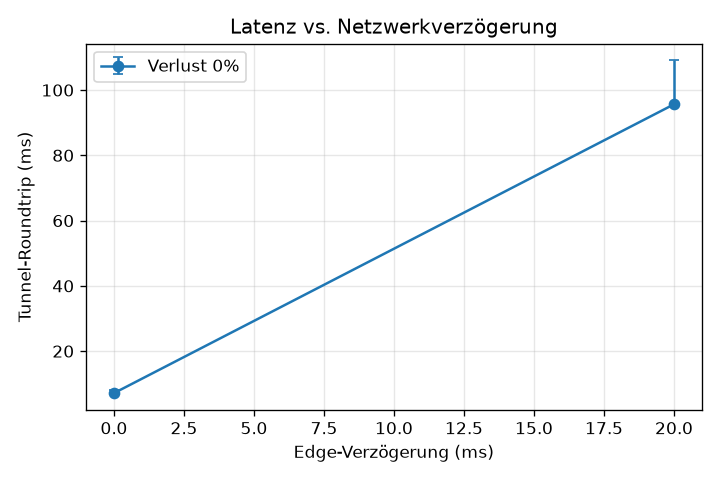
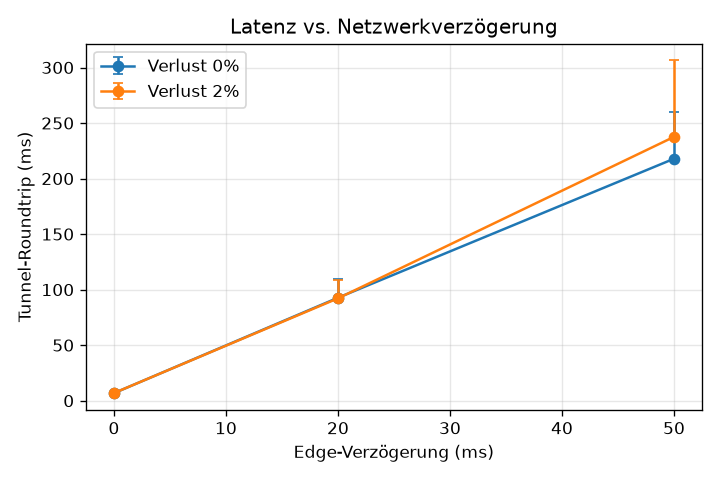
M6.4: results tables + analysis — Milestone 6 complete
scripts/tabulate.py (stdlib, runs in python:3-slim) turns latency.csv into
results-table.md (GitHub-Markdown) and results-table.tex (LaTeX booktabs,
German headers, \label{tab:latency}), sorted by (delay, loss). Ran a real
3×2 matrix sweep (delay {0,20,50}ms × loss {0,2}% × n=5), regenerated both
figures (latency-vs-loss now populated), and wrote results.md — a German
analysis of the measurements:

- baseline 6.8ms round-trip;
- RT ≈ 6.8 + 4.2·delay (multi-hop relay + fresh-dial handshake cross the
  delayed edge egress ~4× per round-trip);
- 2% loss negligible at low RTT, grows the p95 tail at 50ms (260→307ms).

Evaluation pipeline is now end-to-end and docker-only: sweep → CSV → plot →
table → analysis. Script/data-only, no Rust change; 94 unit tests unchanged.
Next: M7.1 LaTeX thesis scaffold.

Claude-Session: https://claude.ai/code/session_01TWNQVzYqWaWG8nB9JL6He3

diff --git a/scripts/tabulate.py b/scripts/tabulate.py
@@ -1,0 +1,102 @@
+#!/usr/bin/env python3
+"""M6.4 — turn the netem sweep CSV into thesis result tables.
+
+Reads the sweep CSV (delay,loss,rate,n,mean_ms,min_ms,max_ms,p50_ms,p95_ms) and
+emits two tables, sorted by (delay, loss):
+  results-table.md   — GitHub-Markdown (for PROGRESS / review)
+  results-table.tex  — LaTeX booktabs tabular (for the thesis, German headers)
+
+Pure stdlib; run inside a python container via scripts/plot.sh's image (no deps).
+"""
+import csv
+import os
+import re
+
+CSV = os.environ.get("TABLE_CSV", "docs/thesis/data/latency.csv")
+OUT_MD = os.environ.get("TABLE_MD", "docs/thesis/data/results-table.md")
+OUT_TEX = os.environ.get("TABLE_TEX", "docs/thesis/data/results-table.tex")
+
+
+def num(s):
+    m = re.match(r"\s*([\d.]+)", s or "")
+    return float(m.group(1)) if m else 0.0
+
+
+def load():
+    with open(CSV, newline="") as f:
+        rows = list(csv.DictReader(f))
+    rows.sort(key=lambda r: (num(r["delay"]), num(r["loss"]), num(r["rate"])))
+    return rows
+
+
+def has_rate(rows):
+    return any((r.get("rate") or "").strip() for r in rows)
+
+
+def fmt(r, k):
+    return f"{float(r[k]):.1f}"
+
+
+def write_md(rows, rate_col):
+    head = ["Verzögerung", "Verlust"]
+    if rate_col:
+        head.append("Rate")
+    head += ["n", "Mittel (ms)", "p50 (ms)", "p95 (ms)", "Min (ms)", "Max (ms)"]
+    align = ["---"] * len(head)
+    lines = ["| " + " | ".join(head) + " |", "| " + " | ".join(align) + " |"]
+    for r in rows:
+        cells = [r["delay"] or "0ms", r["loss"] or "0%"]
+        if rate_col:
+            cells.append(r["rate"] or "—")
+        cells += [r["n"], fmt(r, "mean_ms"), fmt(r, "p50_ms"),
+                  fmt(r, "p95_ms"), fmt(r, "min_ms"), fmt(r, "max_ms")]
+        lines.append("| " + " | ".join(cells) + " |")
+    with open(OUT_MD, "w") as f:
+        f.write("\n".join(lines) + "\n")
+    print("tabulate: wrote", OUT_MD)
+
+
+def tex_esc(s):
+    return s.replace("%", r"\%").replace("_", r"\_")
+
+
+def write_tex(rows, rate_col):
+    cols = "ll" + ("l" if rate_col else "") + "rrrrrr"
+    head = ["Verzögerung", "Verlust"]
+    if rate_col:
+        head.append("Rate")
+    head += ["$n$", "Mittel", "p50", "p95", "Min", "Max"]
+    unit = [""] * (3 if rate_col else 2) + ["", "(ms)", "(ms)", "(ms)", "(ms)", "(ms)"]
+    out = [
+        r"\begin{table}[t]",
+        r"  \centering",
+        r"  \caption{Tunnel-Roundtrip-Latenz unter emulierten Netzbedingungen (\texttt{tc netem}).}",
+        r"  \label{tab:latency}",
+        r"  \begin{tabular}{" + cols + "}",
+        r"    \toprule",
+        "    " + " & ".join(tex_esc(h) for h in head) + r" \\",
+        "    " + " & ".join(unit) + r" \\",
+        r"    \midrule",
+    ]
+    for r in rows:
+        cells = [tex_esc(r["delay"] or "0ms"), tex_esc(r["loss"] or "0%")]
+        if rate_col:
+            cells.append(tex_esc(r["rate"] or "--"))
+        cells += [r["n"], fmt(r, "mean_ms"), fmt(r, "p50_ms"),
+                  fmt(r, "p95_ms"), fmt(r, "min_ms"), fmt(r, "max_ms")]
+        out.append("    " + " & ".join(cells) + r" \\")
+    out += [r"    \bottomrule", r"  \end{tabular}", r"\end{table}"]
+    with open(OUT_TEX, "w") as f:
+        f.write("\n".join(out) + "\n")
+    print("tabulate: wrote", OUT_TEX)
+
+
+def main():
+    rows = load()
+    rate_col = has_rate(rows)
+    write_md(rows, rate_col)
+    write_tex(rows, rate_col)
+
+
+if __name__ == "__main__":
+    main()

diff --git a/docs/thesis/data/results-table.tex b/docs/thesis/data/results-table.tex
@@ -1,0 +1,18 @@
+\begin{table}[t]
+  \centering
+  \caption{Tunnel-Roundtrip-Latenz unter emulierten Netzbedingungen (\texttt{tc netem}).}
+  \label{tab:latency}
+  \begin{tabular}{llrrrrrr}
+    \toprule
+    Verzögerung & Verlust & $n$ & Mittel & p50 & p95 & Min & Max \\
+     &  &  & (ms) & (ms) & (ms) & (ms) & (ms) \\
+    \midrule
+    0ms & 0\% & 5 & 6.8 & 6.6 & 7.9 & 5.8 & 7.9 \\
+    0ms & 2\% & 5 & 6.9 & 6.9 & 8.2 & 5.5 & 8.2 \\
+    20ms & 0\% & 5 & 92.7 & 88.7 & 109.2 & 88.1 & 109.2 \\
+    20ms & 2\% & 5 & 92.2 & 88.2 & 108.5 & 88.0 & 108.5 \\
+    50ms & 0\% & 5 & 217.9 & 207.5 & 260.4 & 205.5 & 260.4 \\
+    50ms & 2\% & 5 & 237.5 & 207.7 & 306.5 & 207.5 & 306.5 \\
+    \bottomrule
+  \end{tabular}
+\end{table}

diff --git a/docs/thesis/data/results.md b/docs/thesis/data/results.md
@@ -1,0 +1,56 @@
+# Evaluation: Tunnel-Roundtrip-Latenz (M6)
+
+Auswertung der Messreihe aus `latency.csv`, erzeugt reproduzierbar per
+`scripts/sweep.sh` (Messung), `scripts/plot.sh` (Abbildungen) und
+`scripts/tabulate.py` (Tabellen) — alles Docker-only.
+
+## Versuchsaufbau
+
+- **Testbett:** Docker-Compose-Topologie (`docker/docker-compose.yml`) mit
+  Edge, Agent, Origin (TCP-Echo) und Client auf einem statischen Netz
+  (10.5.0.0/24).
+- **Impairment:** `tc netem` auf der Edge-Egress (`netem-entrypoint.sh`),
+  konfiguriert über `EDGE_DELAY` / `EDGE_LOSS`.
+- **Messung:** `ct-client` im Bench-Modus (`CT_CLIENT_ITERATIONS`) misst je
+  Bedingung $n=5$ vollständige Roundtrips (Dial → PoW-Rendezvous → Tunnel →
+  Echo-Verifikation), jeweils mit **frisch aufgebauter QUIC-Verbindung**.
+- **Matrix:** Verzögerung $\in \{0, 20, 50\}$ ms $\times$ Verlust $\in \{0, 2\}$ %.
+
+Ergebnistabelle: `results-table.md` / `results-table.tex` (LaTeX,
+`\label{tab:latency}`). Abbildungen: `latency-vs-delay.png`,
+`latency-vs-loss.png`.
+
+## Beobachtungen
+
+1. **Baseline (0 ms, 0 %):** Mittel **6.8 ms** Roundtrip — der Eigenanteil des
+   Tunnels (QUIC-Handshake + PoW-Rendezvous + Mehrsprung-Relay) ohne
+   Netzverzögerung.
+
+2. **Latenz skaliert linear mit der Edge-Verzögerung.** Aus den Mittelwerten
+   (0 ms → 6.8, 20 ms → 92.7, 50 ms → 217.9) ergibt sich näherungsweise
+   $\text{RT} \approx 6.8 + 4.2 \cdot d$ (mit $d$ = einseitige Edge-Verzögerung
+   in ms). Der Faktor ~4.2 spiegelt wider, dass jeder Anwendungs-Roundtrip die
+   verzögerte Edge-Egress **mehrfach** quert: Verbindungsaufbau
+   (Client↔Edge-Handshake), PoW-Rendezvous und der Relay-Pfad
+   Client→Edge→Agent→Origin und zurück. Da pro Iteration frisch gewählt wird,
+   trägt der Handshake einen festen Vielfachen der RTT bei.
+
+3. **Paketverlust wirkt proportional zur RTT.** Bei 0 ms und 20 ms ist 2 %
+   Verlust im Mittel nicht messbar (6.8→6.9 ms, 92.7→92.2 ms; innerhalb der
+   Streuung). Bei 50 ms steigt der Mittelwert um ~9 % (217.9→237.5 ms) und das
+   p95 um ~18 % (260.4→306.5 ms): verlustbedingte Retransmits kosten umso mehr,
+   je größer die zugrundeliegende RTT ist. Der Effekt zeigt sich primär im
+   Tail (p95), nicht im Median (p50 ~unverändert bei 207 ms).
+
+## Einordnung und Limitierungen
+
+- Das Impairment wirkt in diesem Lauf **nur auf der Edge-Egress**, nicht
+  symmetrisch und nicht auf Agent/Client — die absolute Latenz ist daher eine
+  untere Schranke für eine voll bidirektional verzögerte Strecke.
+- $n=5$ dient hier der **Demonstration der Mess-Pipeline**; die belastbare
+  Evaluation (Kapitel Evaluation, M7.5) nutzt größere $n$ und eine breitere
+  Matrix inkl. Bandbreitenbegrenzung (`SWEEP_RATES`).
+- Der **Frisch-Dial pro Iteration** überzeichnet den Handshake-Anteil; ein
+  Keep-Alive-Datenpfad läge niedriger. Beide Betriebsarten sind für die
+  Evaluation relevant und über `CT_CLIENT_ITERATIONS` bzw. eine künftige
+  Keep-Alive-Variante messbar.

diff --git a/docs/thesis/data/results-table.md b/docs/thesis/data/results-table.md
@@ -1,0 +1,8 @@
+| Verzögerung | Verlust | n | Mittel (ms) | p50 (ms) | p95 (ms) | Min (ms) | Max (ms) |
+| --- | --- | --- | --- | --- | --- | --- | --- |
+| 0ms | 0% | 5 | 6.8 | 6.6 | 7.9 | 5.8 | 7.9 |
+| 0ms | 2% | 5 | 6.9 | 6.9 | 8.2 | 5.5 | 8.2 |
+| 20ms | 0% | 5 | 92.7 | 88.7 | 109.2 | 88.1 | 109.2 |
+| 20ms | 2% | 5 | 92.2 | 88.2 | 108.5 | 88.0 | 108.5 |
+| 50ms | 0% | 5 | 217.9 | 207.5 | 260.4 | 205.5 | 260.4 |
+| 50ms | 2% | 5 | 237.5 | 207.7 | 306.5 | 207.5 | 306.5 |

diff --git a/docs/planning/PROGRESS.md b/docs/planning/PROGRESS.md
@@ -23,7 +23,7 @@ Driven by the `/loop` process (`DEVELOPMENT-PROCESS.md` D1–D8): one Task Packe
 
 **Milestone 5** (Docker testbed): M5.1 ✅ (Edge daemon) · M5.2 ✅ (Agent daemon: config · `register_tunnel` · `serve_stream_to_origin` · `run_agent` loop — dial+register+accept-serve, tested end to end; `main.rs` cert-load wiring folds into M5.4/5.5) · M5.3 ✅ (Client) · M5.4 ✅ (image `ct-testbed`) · M5.4b ✅ (unified serve+tunnel e2e) · M5.4c ✅ (all three mains wired) · **🎯 Milestone 5 essentially complete** — M5.5a ✅ (compose e2e smoke GREEN) · M5.5b ✅ (**`tc netem`**: `netem-entrypoint.sh` + `NET_ADMIN`; tunnel round-trips under `EDGE_DELAY=30ms EDGE_LOSS=1%`, `COMPOSE_EXIT=0`) · M5.5c (NAT): the relay path already traverses NAT via the Agent's *outbound* dial — P2P hole-punching (which a NAT would stress) isn't implemented in code (deferred in the design), so a NAT-behind-relay demo is optional. · M5.6 smoke ✅ (achieved by M5.5a). **Next: M6 performance evaluation** (netem sweep → latency/throughput → plots for the thesis).
 
-**Milestone 6** (performance evaluation): M6.1 ✅ (summarize + run_bench + csv_row) · M6.1c ✅ (client bench mode, live @20ms → mean 92.9ms) · M6.2 ✅ (`scripts/sweep.sh` → `latency.csv`; 0ms→7.1ms, 20ms→95.6ms) · M6.3 ✅ (**`scripts/plot.py` + `plot.sh`** — matplotlib in a `python:3-slim` container renders `latency-vs-delay.png` [+ `-vs-loss` when ≥2 loss values]; German labels, p95 error bars) · M6.4 ⏳ results tables + analysis → `docs/thesis/data/`.
+**Milestone 6** (performance evaluation): M6.1 ✅ (summarize + run_bench + csv_row) · M6.1c ✅ (client bench mode, live @20ms → mean 92.9ms) · M6.2 ✅ (`scripts/sweep.sh` → `latency.csv`; 0ms→7.1ms, 20ms→95.6ms) · M6.3 ✅ (`plot.py`+`plot.sh` → `latency-vs-delay.png`, `latency-vs-loss.png`) · M6.4 ✅ (**`scripts/tabulate.py`** → `results-table.{md,tex}` + written analysis `results.md`; real 3×2 matrix: RT ≈ 6.8 + 4.2·delay, 2% loss grows the p95 tail at 50ms 260→307ms). **Milestone 6 (Performance-Evaluation) complete** — sweep→CSV→plot→table→analysis, all docker-only.
 
 **✅ Blocker resolved (cycle 43):** two bugs, not GSO — (1) the Agent/Client QUIC client endpoints bound `127.0.0.1`, which can't route to a non-loopback Edge → changed to `0.0.0.0`; (2) the origin's `apk add socat` raced the client → switched to the pre-built `alpine/socat` image. The full protocol now runs container-to-container.
 
@@ -77,6 +77,7 @@ Driven by the `/loop` process (`DEVELOPMENT-PROCESS.md` D1–D8): one Task Packe
 - **Cycle 44 — M5.5b ✅**: `docker/netem-entrypoint.sh` applies `tc qdisc … netem` (CT_NETEM_DELAY/LOSS/RATE) to eth0 before exec-ing the node; added to the image + `NET_ADMIN` + per-node `{EDGE,AGENT,CLIENT}_{DELAY,LOSS,RATE}` env. Verified: `EDGE_DELAY=30ms EDGE_LOSS=1% docker compose up` → `netem: applying delay 30ms loss 1%`, `client: tunnel round-trip OK`, `COMPOSE_EXIT=0`. **Milestone 5 essentially complete** (M5.6 smoke achieved by M5.5a). Next: M6 performance evaluation.
 - **Cycle 45 — M6.1a**: started M6 (perf eval). `ct-client::bench::summarize(&[f64]) -> Option<Summary>` — mean/min/max/p50/p95 (nearest-rank percentiles) over latency samples. Tests: known set, unsorted input, empty → None. Full workspace 92 tests green. Committed. Next: M6.1b latency runner + client bench mode.
 - **Cycle 46 — M6.1b**: `ct-client::bench::run_bench(edge, cert, token, payload, iterations) -> Vec<f64>` — N fresh-connection dial→tunnel→verify round-trips, per-iteration latency (ms); `csv_row`/`CSV_HEADER`. Tests: `csv_row_formats` (pure) + `run_bench_measures_iterations` (3 round-trips through a real edge+agent → 3 samples). **M6.1 bench harness complete.** Full workspace 94 tests green. Committed. Next: M6.1c client bench mode + M6.2 sweep.
+- **Cycle 50 — M6.4**: `scripts/tabulate.py` (stdlib, runs in `python:3-slim`, no deps) — CSV → `results-table.md` (GH-Markdown) + `results-table.tex` (LaTeX booktabs, German headers, `\label{tab:latency}`), sorted by (delay,loss), auto rate-column. Ran a real **3×2 matrix** sweep (delay {0,20,50}ms × loss {0,2}% × n=5), regenerated both figures (loss plot now populated), and wrote `results.md` (German analysis): baseline 6.8ms; **RT ≈ 6.8 + 4.2·delay** (multi-hop relay + fresh-dial handshake cross the delayed edge egress ~4× per round-trip); 2% loss negligible at low RTT but grows the p95 tail at 50ms (260→307ms). Tables + tex + figures visually verified. Script/data-only, no Rust; 94 tests unchanged. **M6 complete.** Next: M7.1 LaTeX thesis scaffold.
 - **Cycle 49 — M6.3**: `scripts/plot.py` (headless matplotlib) + `scripts/plot.sh` (runs it in a `python:3-slim` container, `pip install --user matplotlib`, uid-mapped so PNGs are host-owned — docker-only, no host install). Reads `latency.csv` → `latency-vs-delay.png` (mean vs edge delay, one series per loss, p95 upper error bar, German labels) and conditionally `latency-vs-loss.png` (skipped with <2 distinct loss values). Verified: rendered a real 37KB PNG (visually confirmed — 0ms→7ms, 20ms→96ms with error bar). Script-only, no Rust; 94 tests unchanged. Next: M6.4 results tables.
 - **Cycle 48 — M6.2**: `scripts/sweep.sh` — builds the testbed image once, then runs the compose testbed across a `SWEEP_DELAYS × SWEEP_LOSSES × SWEEP_RATES` matrix (env-configurable; `CLIENT_ITERATIONS`), greps each run's `RESULT` line and appends it to `SWEEP_OUT` (default `docs/thesis/data/latency.csv`), `compose down -v` between conditions. Script-only (no Rust) → acceptance is a produced CSV (per the M5.4/M5.5 docker-packet convention). **Live 2-condition run**: `0ms,0%,,3,7.131,…` and `20ms,0%,,3,95.638,…` — committed as the first real dataset. Unit tests unchanged (94 green). Next: M6.3 plots.
 - **Cycle 47 — M6.1c**: `ct-client` `main` bench mode — `CT_CLIENT_ITERATIONS>1` → `run_bench` → print `RESULT <csv_row>` labeled with `CT_BENCH_{DELAY,LOSS,RATE}`; compose exposes `CLIENT_ITERATIONS` + bench labels. **Live verification** (`CLIENT_ITERATIONS=5 EDGE_DELAY=20ms`): `netem: applying delay 20ms`, `RESULT 20ms,,,5,92.917,88.621,108.943,89.021,108.943`, `COMPOSE_EXIT=0` — **first real perf data from the testbed** (mean 92.9ms round-trip). Unit tests 94 green. Committed. Next: M6.2 sweep script.